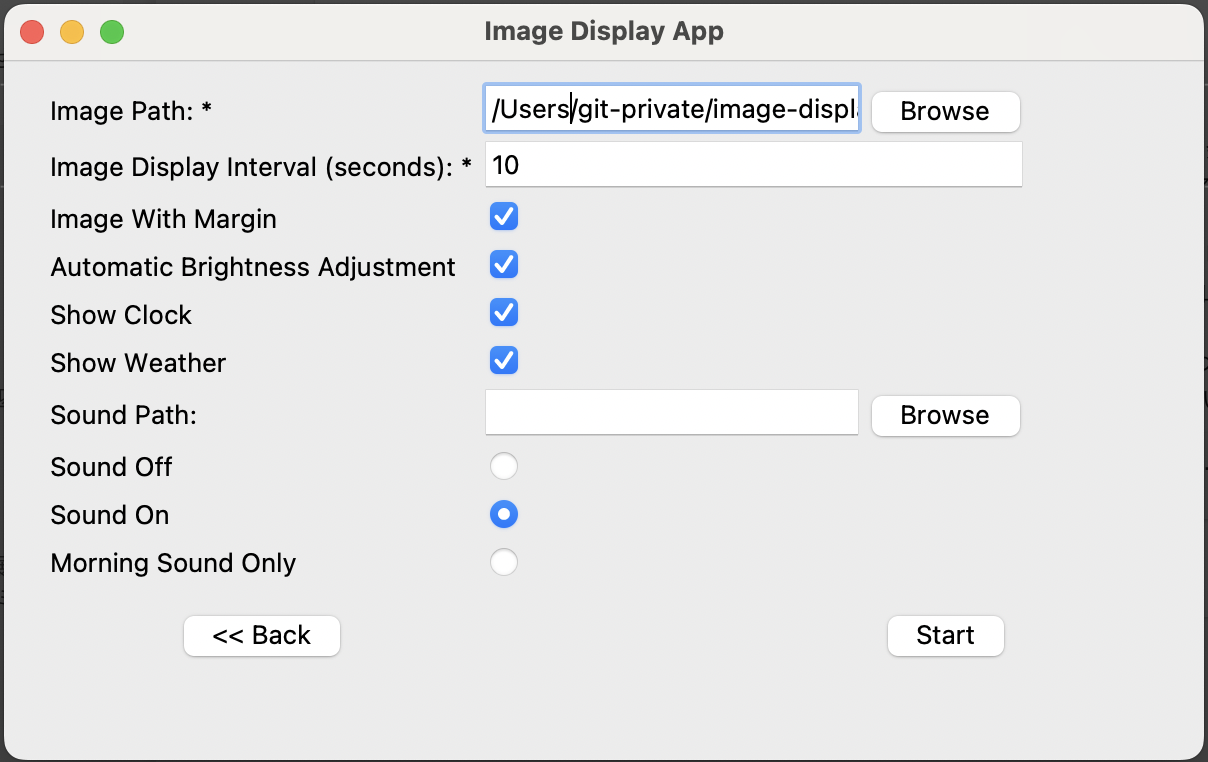
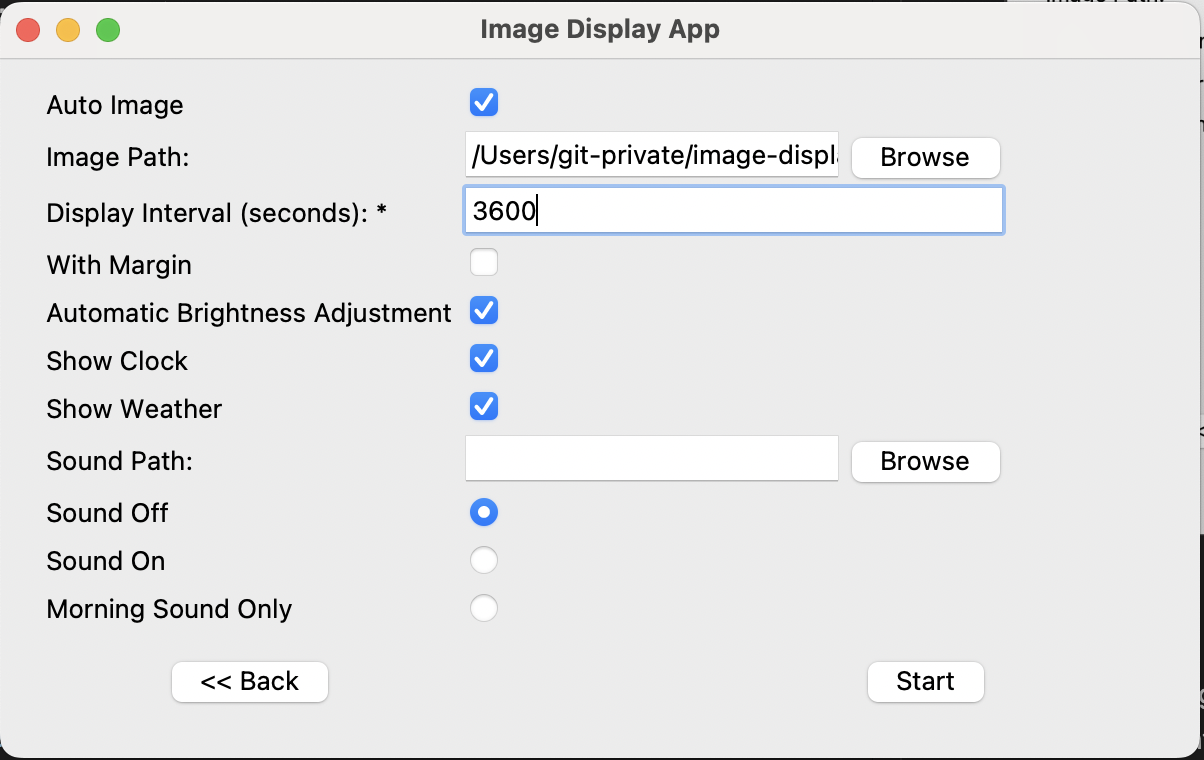
Auto Imageの情報を追加

diff --git a/README.md b/README.md
@@ -90,7 +90,8 @@ python main.py
 
 ### - 設定
 
-- Image Path: 画像フォルダのパス
+- Auto Image: 画像をネット上から自動取得
+- Image Path: 画像フォルダのパス(Auto Imageをオフにした場合、このフォルダの中から画像を表示します)
 - Image Display Interval: 画像が切り替わるまでの時間
 - Image With Margin: 画像の周りに余白を表示するか否か
 - Automatic Brightness Adjustment: 明るさを自動調整するか否か
